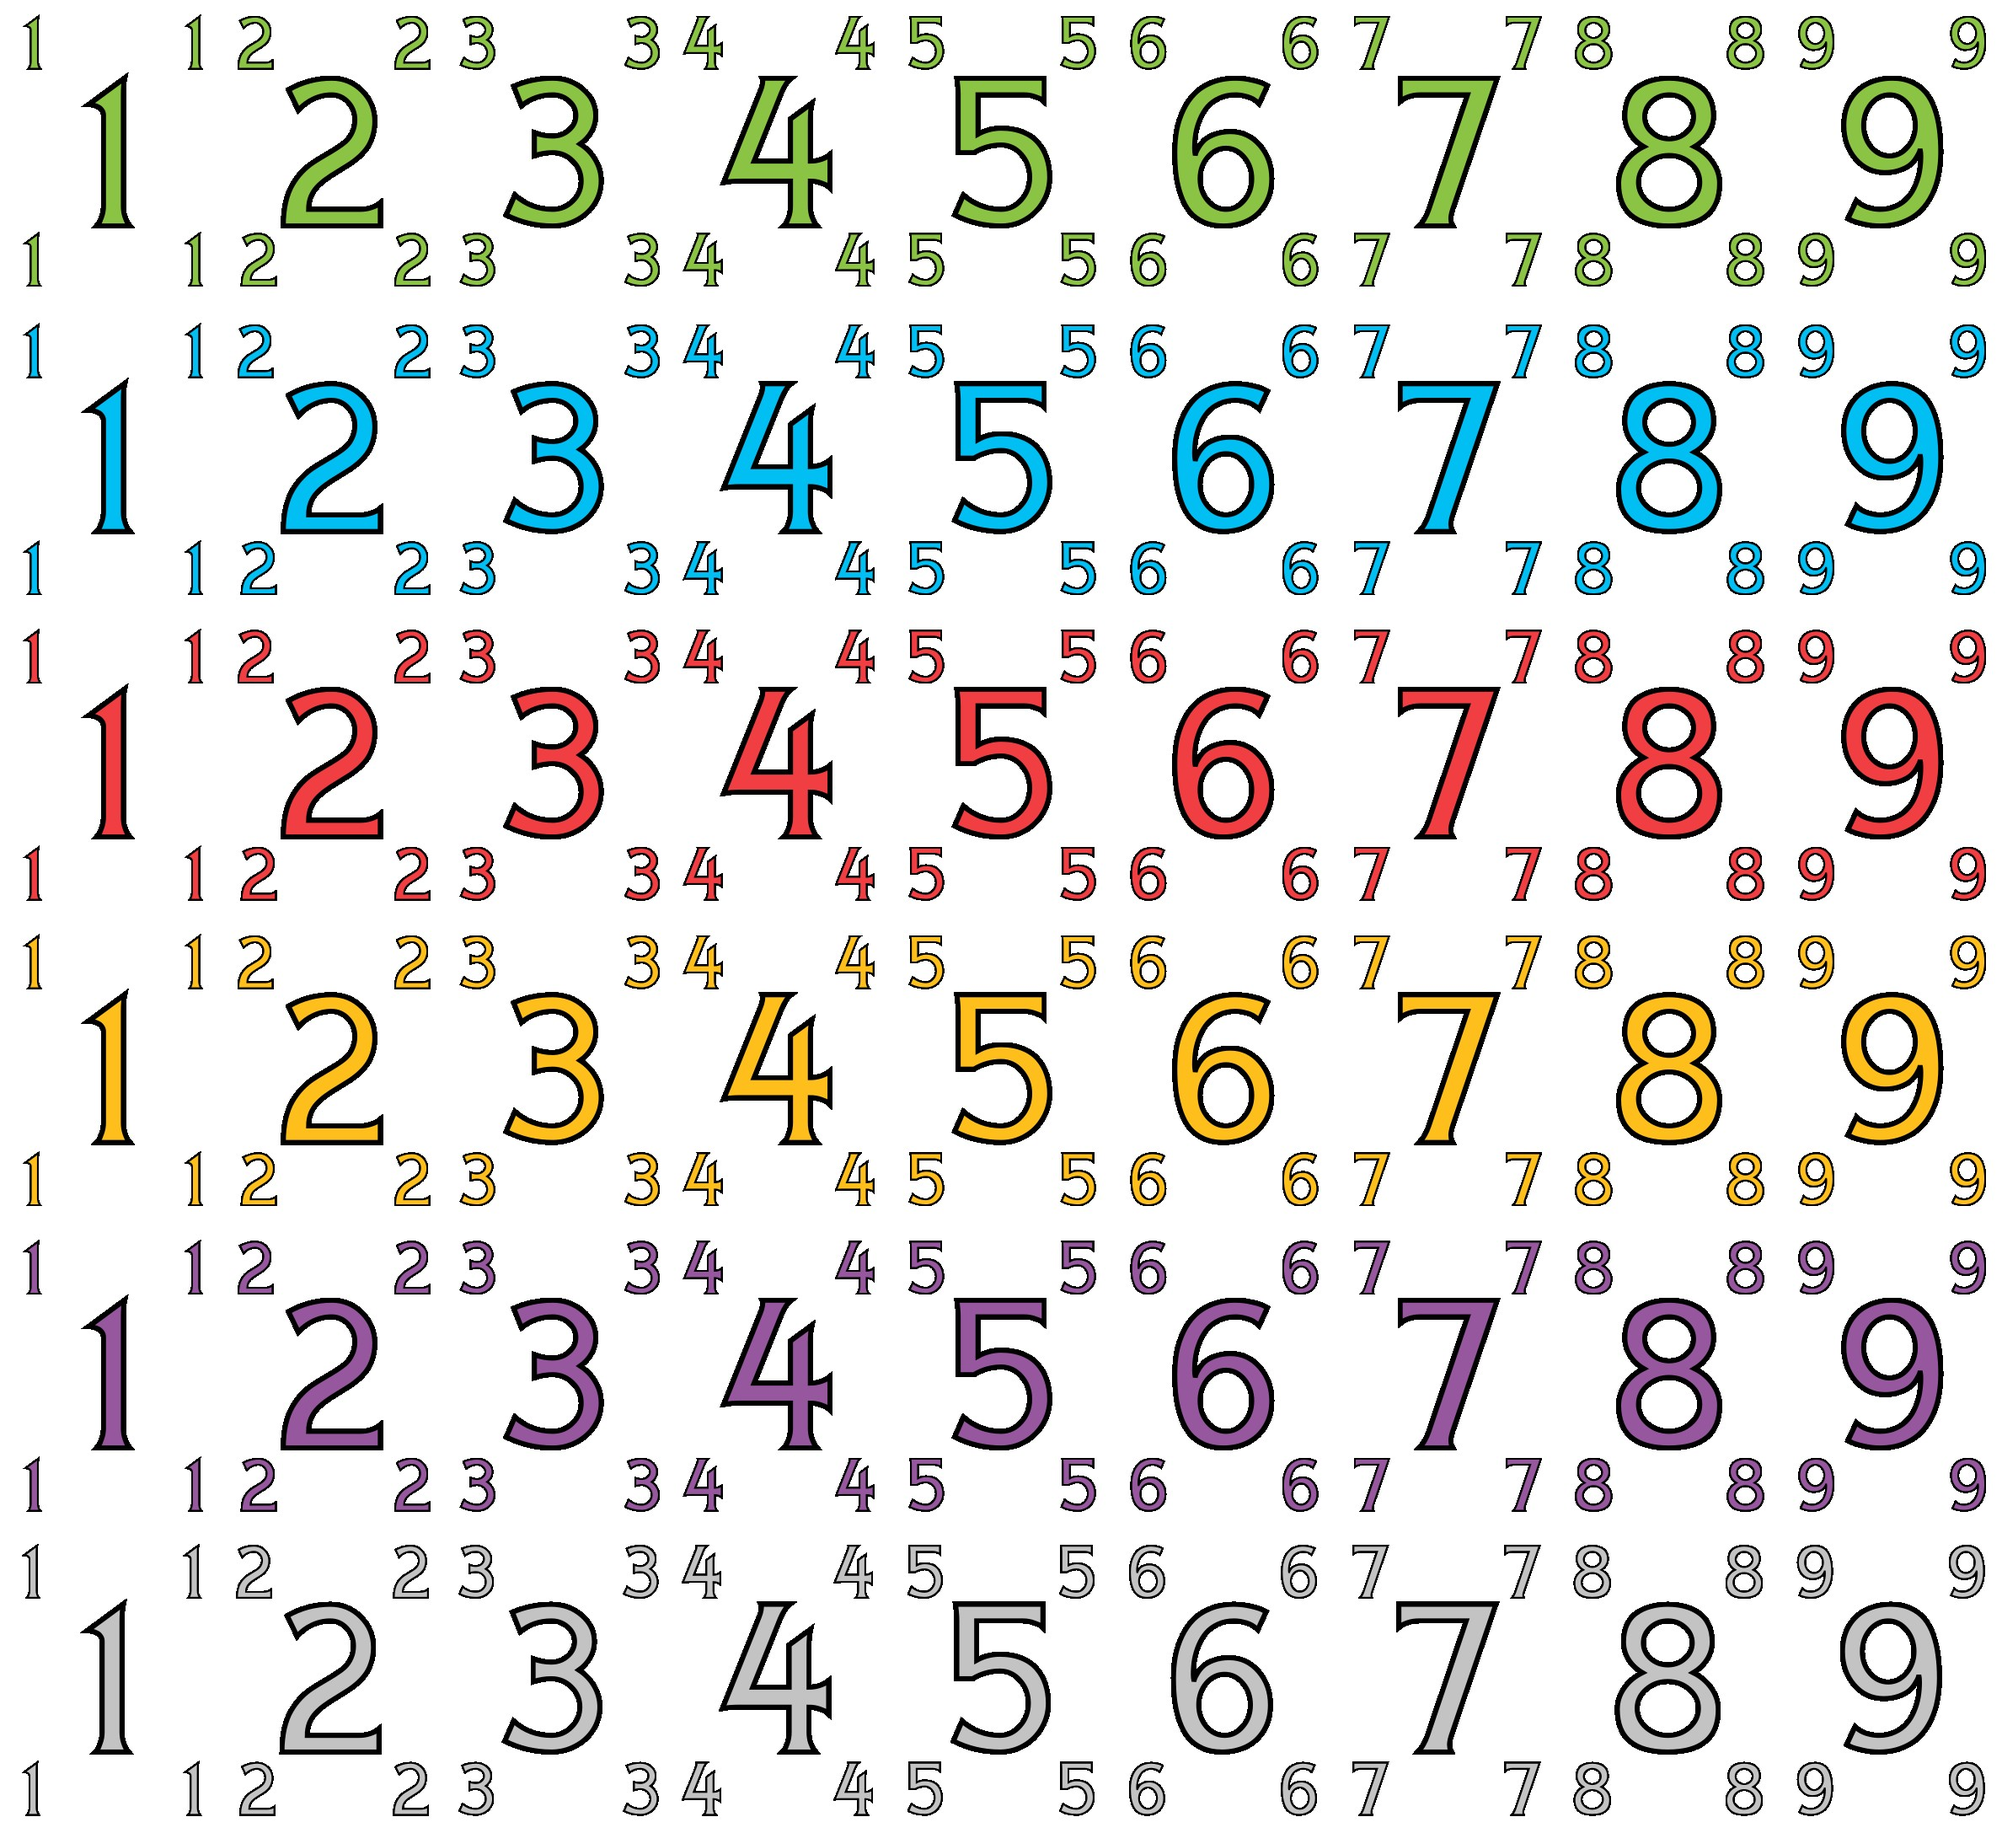
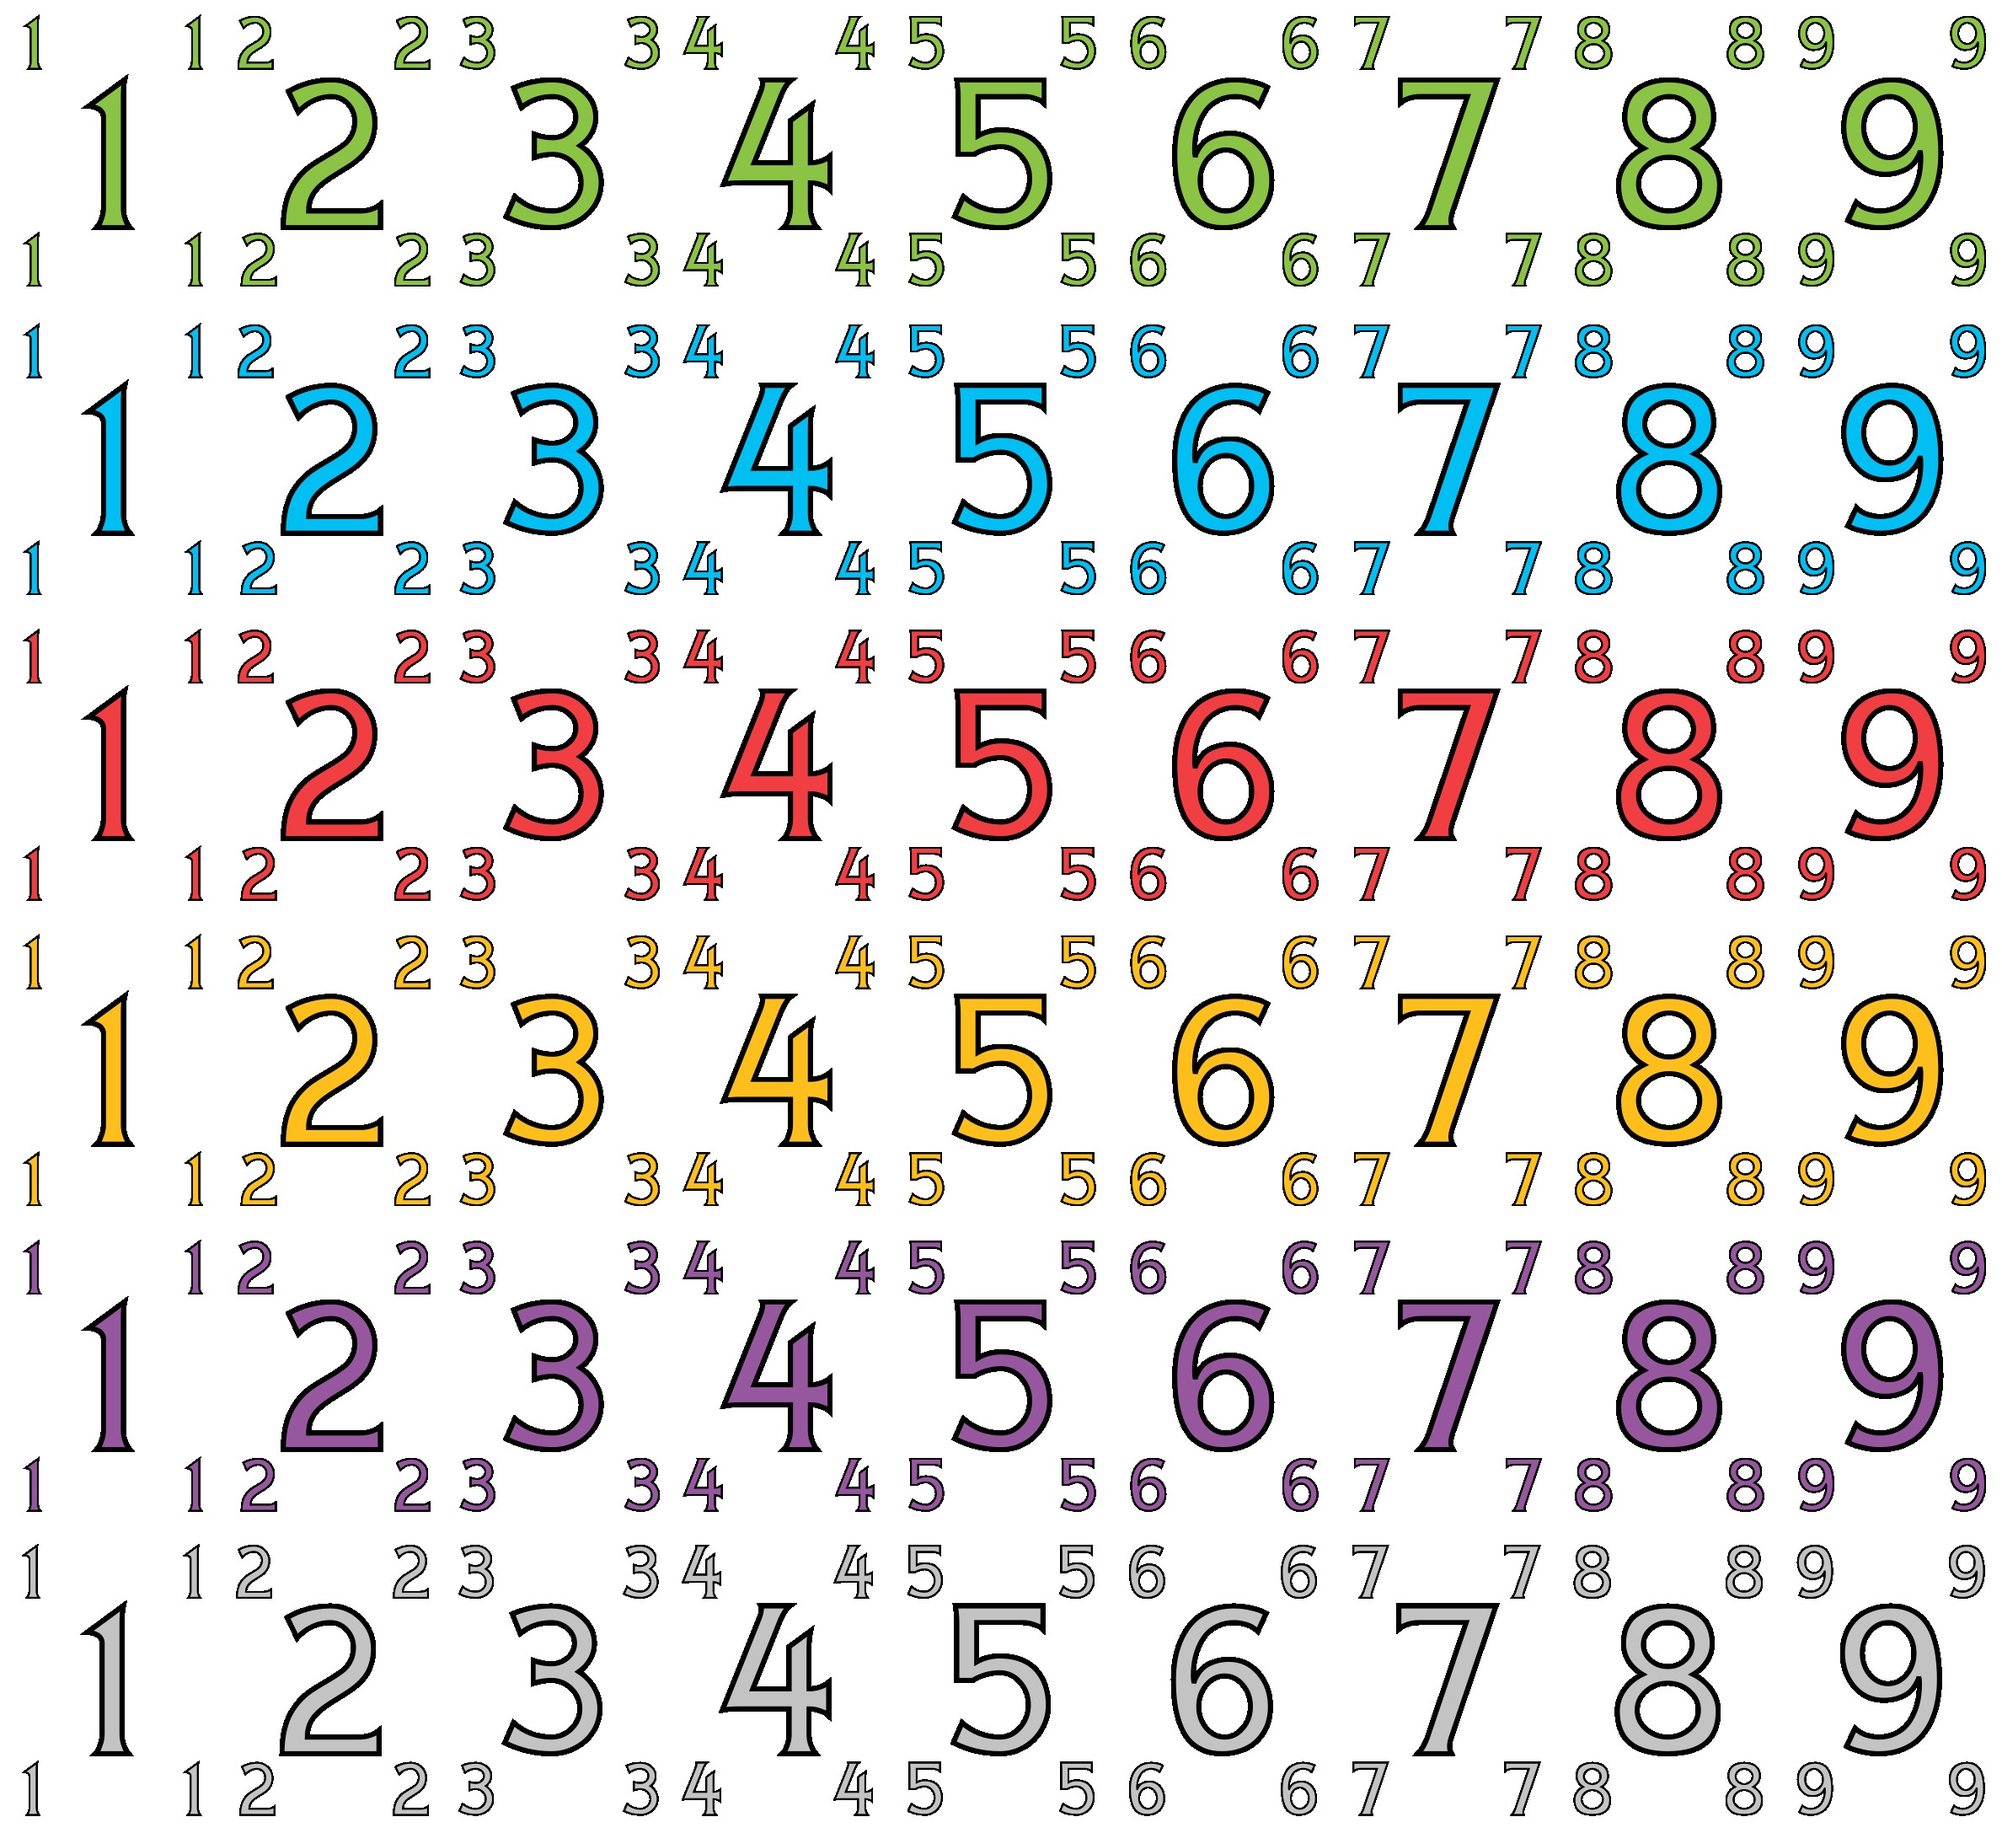
add screenshot

diff --git a/README.md b/README.md
@@ -1,6 +1,9 @@
 # Schotten Totten userstyle
 Replace cards with more legible ones.
 
+## Just show me …
+![screenshot](/img/screenshot.png?raw=true)
+
 ## Prerequisites
 <a href="https://github.com/openstyles/stylus#readme">Stylus</a> or some other way to apply .user.styl-files. Config is done within Stylus:
 
